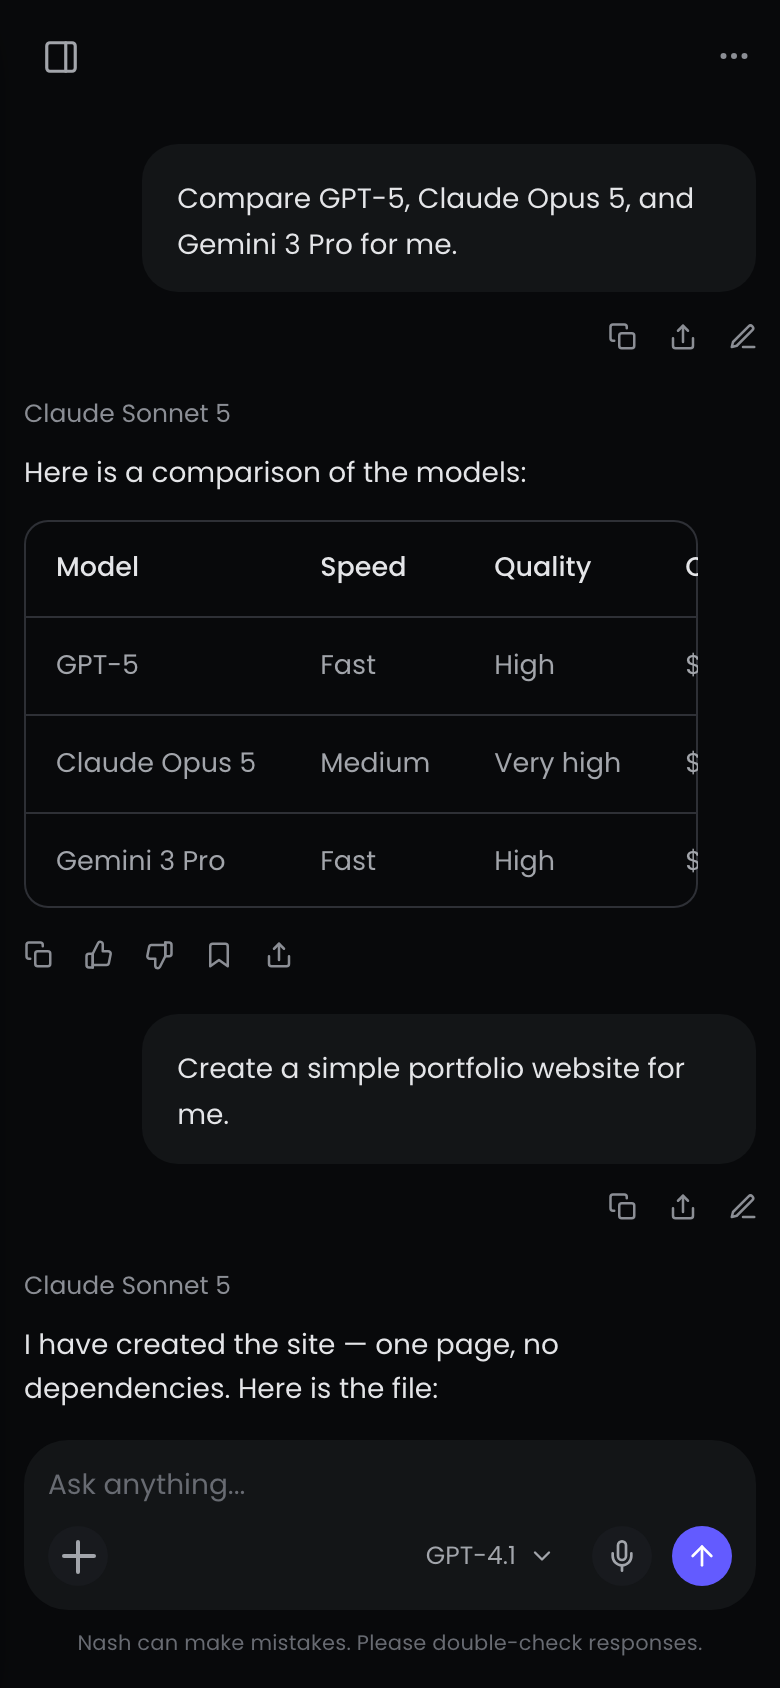
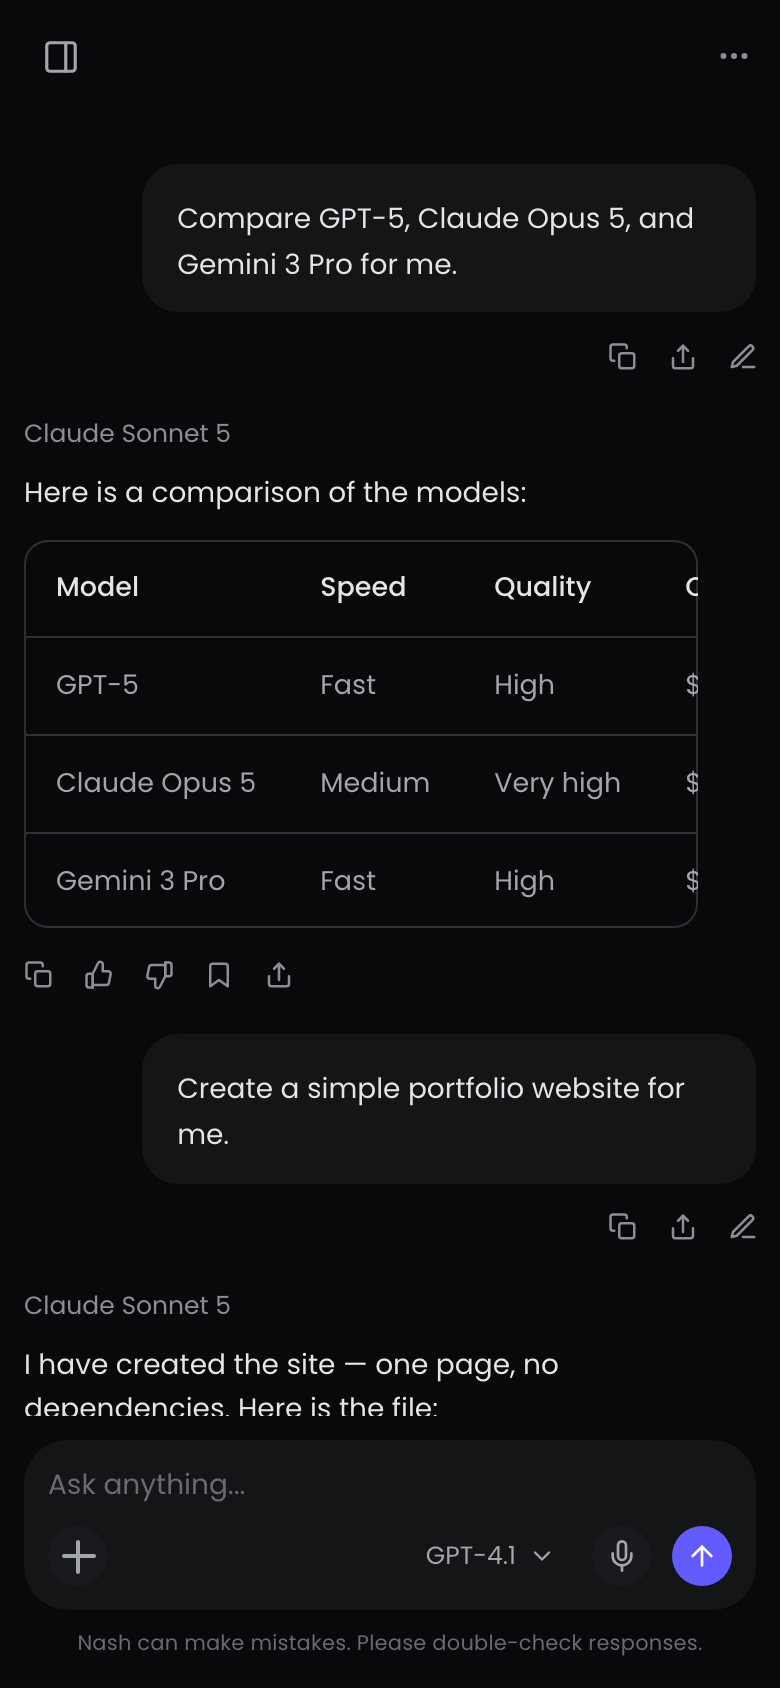
More room under the mobile top bar

diff --git a/app/src/styles/shell.css b/app/src/styles/shell.css
@@ -347,8 +347,8 @@
   .topbar{position:relative;height:56px;padding:0 14px;gap:10px;}
   .topbar .menu{color:var(--t2);display:flex;align-items:center;}
 
-  .chatbody{padding:22px 16px 16px;}
-  .threadin{padding:16px 12px 16px;gap:16px;}
+  .chatbody{padding:32px 16px 16px;}
+  .threadin{padding:26px 12px 16px;gap:16px;}
   .msg .bubble{max-width:92%;}
   .msg.user .bubble{max-width:84%;}
   .mtext{font-size:14px;}

diff --git a/app/src/styles/memories.css b/app/src/styles/memories.css
@@ -141,7 +141,7 @@
 
 /* ---------- mobile ---------- */
 @media (max-width: 720px){
-  .page{padding:18px 16px 44px;}
+  .page{padding:28px 16px 48px;}
   /* the reminder lies over the foot of the list, so make room to scroll past it */
   .page.toastroom{padding-bottom:120px;}
   .pagehead.deskonly{display:none;}
